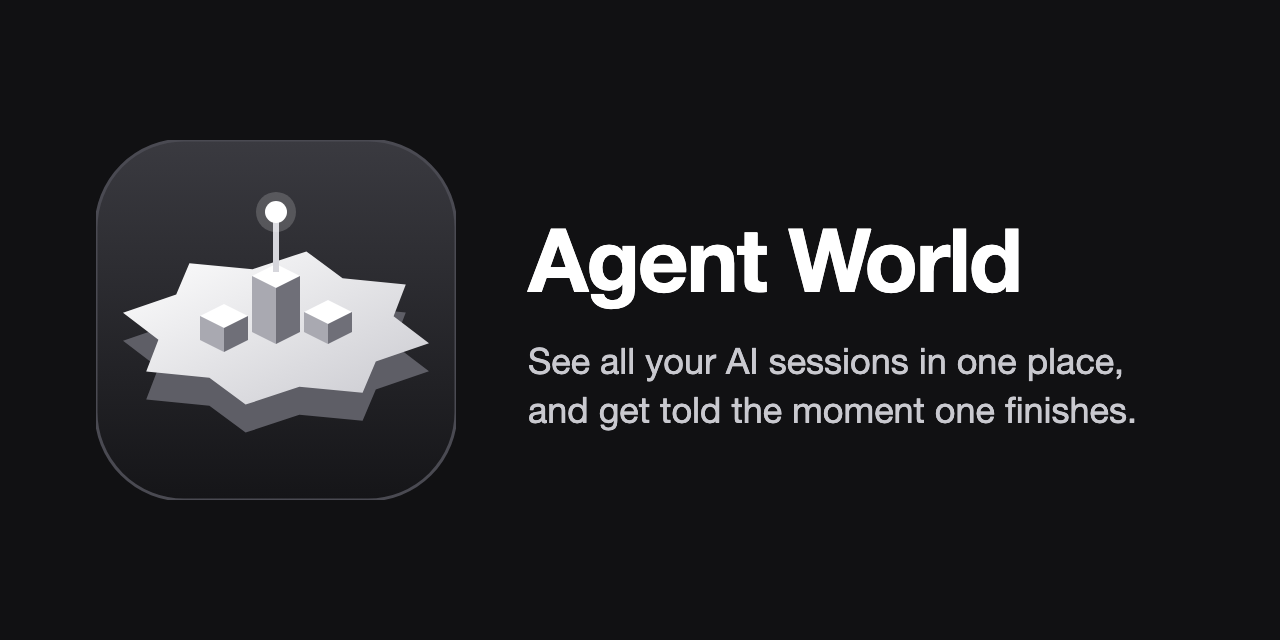
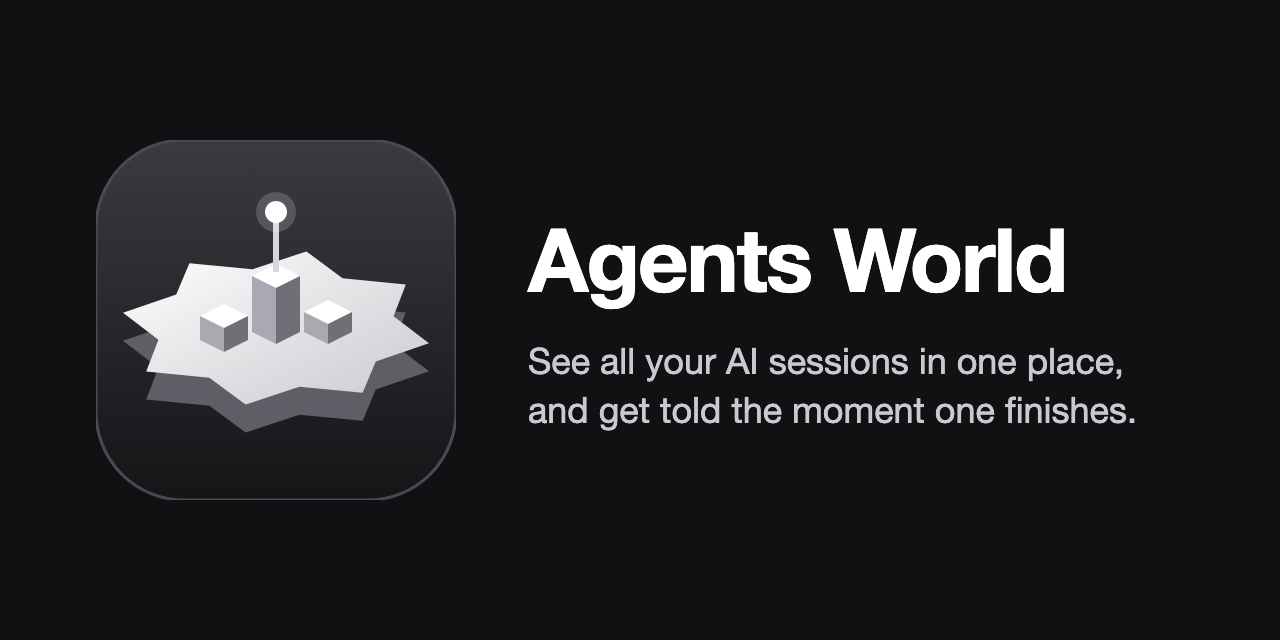
Rename to Agents World

Changed region(s): [[0.5938, 0.3438, 0.8438, 0.4688]]

diff --git a/server/index.js b/server/index.js
@@ -1,3 +1,4 @@
+import './env-names.js';   // first: new AGENTS_WORLD_* names also set the old AGENT_WORLD_* ones before anything reads them
 import { modelRouterRoute } from './model-router.js';
 import { usageRoute } from './usage-ledger.js';
 import http from 'node:http';
@@ -47,7 +48,7 @@ if (process.argv.includes('--snapshot')) {
 if (process.argv.includes('--test-notify')) {             // npm run test-notify: send one alert the way a finished session would
   const n = makeNotifier(config.notify);
   if (!n) console.log('All alerts are off in data/config.json ("notify").');
-  else console.log('sent:', await n({ title: 'Agent World', message: 'Finished: this is a test alert' }));
+  else console.log('sent:', await n({ title: 'Agents World', message: 'Finished: this is a test alert' }));
   process.exit(0);
 }
 
@@ -106,7 +107,7 @@ function openTerminal(cwd, resume) {
   if (process.platform === 'darwin') { execFile('osascript', ['-e', `tell application "Terminal"\nactivate\ndo script "${asEsc}"\nend tell`], (err) => err && console.error('osascript:', err.message)); return null; }
   if (process.platform === 'win32') {
     // A new Command Prompt window in that folder. `resume` is built from checked ids and agent names only, never free text.
-    spawn('cmd.exe', ['/c', 'start', 'Agent World', 'cmd.exe', '/k', resume], { cwd, detached: true, stdio: 'ignore' }).on('error', (e) => console.error('terminal:', e.message)).unref();
+    spawn('cmd.exe', ['/c', 'start', 'Agents World', 'cmd.exe', '/k', resume], { cwd, detached: true, stdio: 'ignore' }).on('error', (e) => console.error('terminal:', e.message)).unref();
     return null;
   }
   return `Opening a terminal is only supported on macOS and Windows. Run this yourself: ${cmd}`;
@@ -244,7 +245,7 @@ async function handle(req, res) {
     if (p === '/api/notify/test') {                                    // the first-steps guide: "Send a test alert"
       if (auth.remote) return json(res, 403, { error: 'Only from this computer.' });
       if (!notifier) return json(res, 200, { ok: false, error: 'Alerts are off in data/config.json ("notify").' });
-      await notifier({ title: 'Agent World', message: 'Finished: this is a test alert' });
+      await notifier({ title: 'Agents World', message: 'Finished: this is a test alert' });
       return json(res, 200, { ok: true });
     }
     if (p === '/api/family/stop') return json(res, 200, { ok: family.stop() });
@@ -461,7 +462,7 @@ if (!process.env.AGENT_WORLD_DRYRUN) { try { installAgents(); installStarter(ROO
 const resumeLoop = () => { try { const n = resumeOrphans(); if (n) console.log(`resumed ${n} research job(s) that were interrupted`); } catch (e) { console.error('resume orphans:', e.message); } };
 setTimeout(resumeLoop, 8000).unref(); setInterval(resumeLoop, 60_000).unref();   // a runner that died at 3 am is restarted within a minute
 server.listen(PORT, HOST, () => {
-  console.log(`Agent World running at http://localhost:${PORT}`);
+  console.log(`Agents World running at http://localhost:${PORT}`);
   // At login, open the Today page once a day (macOS only). Wait a moment so the page has a server to talk to.
   const delay = Number(process.env.AGENT_WORLD_AUTOOPEN_DELAY_MS) || 10000;
   if (config.today) setTimeout(() => autoOpen({   // the Today page is an opt-in extra ("today": true in data/config.json)

diff --git a/public/guide.js b/public/guide.js
@@ -108,7 +108,7 @@ function engineList() {
     const d = el('details', 'gd-eng' + (ok ? ' ok' : '')); d.open = (!ok && id !== 'opencode' && !engineWorks(found)) || (lost && !f.loggedIn);
     d.append(el('summary', '', `${e.name}: ${ok ? (f.loggedIn ? 'ready' : 'installed') : lost ? `installed, but ${fx.where} can't find it yet` : f.installed ? 'installed, not logged in' : 'not found'}`));
     if (lost) {                       // installed in a folder that is not on PATH: typing its name in a terminal fails
-      d.append(el('p', 'gd-soft', `It is in ${f.dir}, which is not on your PATH. Agent World can still run it.`));
+      d.append(el('p', 'gd-soft', `It is in ${f.dir}, which is not on your PATH. Agents World can still run it.`));
       d.append(el('p', '', `1. Fix it for good (paste in ${fx.shell}):`)); d.append(copy(fx.fix));
       d.append(el('p', '', `2. Open a NEW ${fx.shell} window, then log in: ${e.loginHow}`)); d.append(copy(e.login));
       d.append(el('p', 'gd-soft', 'Or log in right now without step 1:')); d.append(copy(fx.run));
@@ -125,7 +125,7 @@ function engineList() {
   const go = el('button', 'gd-btn primary', 'Continue'); go.type = 'button'; go.disabled = !engineWorks(found); go.onclick = () => feed({ type: 'engine-ok' });
   again.onclick = async () => { again.disabled = true; const r = await fetch('/api/engines').then(x => x.json()).catch(() => null); if (r) cfg.engines = r; shown = null; render(); };
   row.append(go, again); box.append(row);
-  if (!engineWorks(found)) box.append(el('p', 'gd-soft', 'After installing, run the login command once, then press "Check again". Still "not found"? Restart Agent World.'));
+  if (!engineWorks(found)) box.append(el('p', 'gd-soft', 'After installing, run the login command once, then press "Check again". Still "not found"? Restart Agents World.'));
   return box;
 }
 function notifyHelp() {
@@ -198,7 +198,7 @@ function resumeWait() {           // reloaded while waiting: check once whether 
 function noEngineNote() {        // no AI program at all: say so on the page, guide or not
   if (cfg?.engines?.any !== false || document.getElementById('gdNoEngine')) return;
   const n = el('div', 'gd-noengine'); n.id = 'gdNoEngine'; n.setAttribute('role', 'status');
-  n.append(el('b', '', 'No AI program found. '), document.createTextNode('Agent World runs Claude Code or Codex with your own subscription. Install one: '));
+  n.append(el('b', '', 'No AI program found. '), document.createTextNode('Agents World runs Claude Code or Codex with your own subscription. Install one: '));
   for (const [id, href] of [['claude', ENGINES.claude.docs], ['codex', ENGINES.codex.docs]]) { const a = el('a', '', ENGINES[id].name); a.href = href; a.target = '_blank'; a.rel = 'noopener'; n.append(a, document.createTextNode(id === 'claude' ? ' or ' : '. Then press "? Guide".')); }
   document.body.append(n);
 }

diff --git a/server/notify.js b/server/notify.js
@@ -21,7 +21,7 @@ export function createDoneWatcher({ notify, nameOf = (s) => s.cwd, quiet = (_s) 
       if (quiet(s)) continue;
       if (now - (sentAt.get(s.key) ?? -Infinity) < gapMs) continue;
       sentAt.set(s.key, now);
-      const alert = { title: clip(nameOf(s) || 'Agent World', 60), message: `Finished: ${clip(s.title || 'your task', 100)}` };
+      const alert = { title: clip(nameOf(s) || 'Agents World', 60), message: `Finished: ${clip(s.title || 'your task', 100)}` };
       done.push(alert);
       try { notify(alert)?.catch?.(() => {}); } catch (e) { console.warn('notify failed:', e.message); }
     }
@@ -32,7 +32,7 @@ export function createDoneWatcher({ notify, nameOf = (s) => s.cwd, quiet = (_s) 
 // AppleScript reads the text from its arguments, so a session name can never become code.
 const MAC_SCRIPT = 'on run argv\ndisplay notification (item 2 of argv) with title (item 1 of argv)\nend run';
 // PowerShell reads the text from environment variables and XML-escapes it. Windows only shows toasts from a registered app,
-// so the toast is sent under PowerShell's own app id (a made-up name like "Agent World" is silently dropped).
+// so the toast is sent under PowerShell's own app id (a made-up name like "Agents World" is silently dropped).
 const WIN_SCRIPT = [
   '[Windows.UI.Notifications.ToastNotificationManager, Windows.UI.Notifications, ContentType = WindowsRuntime] | Out-Null',
   '$e = { param($t) [System.Security.SecurityElement]::Escape($t) }',

diff --git a/public/guide-logic.js b/public/guide-logic.js
@@ -8,12 +8,12 @@ export const KEY = 'aw.guide';
 // accepts(ev, state): true when this event finishes the step.
 export const STEPS = [
   { id: 'welcome', page: 'any', target: null, action: 'Start the tour', choice: 'start',
-    title: 'Welcome to Agent World',
+    title: 'Welcome to Agents World',
     text: 'See all your AI sessions in one place, and get told the moment one finishes. This short tour shows you how, one step at a time. You do each step yourself.',
     accepts: (ev) => ev.type === 'next' },
   { id: 'connect', page: 'any', target: null, engines: true,
     title: 'Connect your AI',
-    text: 'Agent World has no AI account of its own. It runs Claude Code or Codex on this computer, logged in with your own subscription. One is enough. It never asks for your password or keys.',
+    text: 'Agents World has no AI account of its own. It runs Claude Code or Codex on this computer, logged in with your own subscription. One is enough. It never asks for your password or keys.',
     accepts: (ev) => ev.type === 'engine-ok' },
   { id: 'name', page: 'any', target: null, input: 'name',
     title: 'What should the agents call you?',

diff --git a/server/chat.js b/server/chat.js
@@ -120,7 +120,7 @@ export function startRun({ tool, sessionId, cwd, text, mode, agent, images = [],
     if (!fs.existsSync(cwd)) throw new Error('Interstellar folder is missing: ' + cwd);
   }
   // the agent you start must not inherit Bella's own settings
-  const env = Object.fromEntries(Object.entries(withToolPath(process.env)).filter(([k]) => !k.startsWith('AGENT_WORLD_')));
+  const env = Object.fromEntries(Object.entries(withToolPath(process.env)).filter(([k]) => !k.startsWith('AGENT_WORLD_') && !k.startsWith('AGENTS_WORLD_')));
   env.CLAUDE_CODE_AUTO_COMPACT_WINDOW = String(COMPACT_TOKENS);       // Claude Code reads this; see COMPACT_TOKENS
   let runToken = null;
   if (agent === 'bella' && tool === 'claude') { env.BELLA_MAX_MODE = mode; runToken = env.BELLA_RUN_TOKEN = issueRunToken(mode); }   // only on Claude Code, where her tool rules limit what she runs   // BELLA_MAX_MODE is only informational; the server trusts the token and clamps what she may start

diff --git a/public/main.js b/public/main.js
@@ -43,7 +43,7 @@ function apply(snap) {
   renderSidebar(list); renderCounts(list); refreshCard(); $('empty').hidden = list.length > 0;
   if (!state.framed && (list.length || snap.interstellar)) { state.framed = true; setTimeout(() => world.home(), 300); }
   const needs = list.filter(s => s.status === 'needs').length;
-  document.title = needs ? `(${needs}) Agent World` : 'Agent World';
+  document.title = needs ? `(${needs}) Agents World` : 'Agents World';
 }
 const find = (key) => state.snap?.sessions.find(s => s.key === key);
 const findAgent = (key) => (key === 'interstellar' ? state.snap?.interstellar : key === 'bella' ? state.snap?.bella : key === 'lab' ? state.snap?.lab : state.snap?.agents?.find(a => 'agent:' + a.name === key));

diff --git a/test/util.test.js b/test/util.test.js
@@ -68,3 +68,10 @@ test('Windows: an npm .cmd tool is started as node + its script, never through a
   assert.equal(resolveBin('claude', [], io).cmd, 'C:\\bin\\claude.exe', 'a real .exe wins');
   assert.deepEqual(resolveBin('claude', ['x'], { platform: 'darwin' }), { cmd: 'claude', args: ['x'] });
 });
+
+test('new AGENTS_WORLD_* setting names work, and an old AGENT_WORLD_* name that is set wins', async () => {
+  const { applyNewEnvNames } = await import('../server/env-names.js');
+  const env = applyNewEnvNames({ AGENTS_WORLD_PORT: '4400', AGENTS_WORLD_HOSTS: 'new', AGENT_WORLD_HOSTS: 'old' });
+  assert.equal(env.AGENT_WORLD_PORT, '4400');
+  assert.equal(env.AGENT_WORLD_HOSTS, 'old');
+});

diff --git a/public/index.html b/public/index.html
@@ -7,7 +7,7 @@
 <meta name="apple-mobile-web-app-capable" content="yes">
 <meta name="apple-mobile-web-app-status-bar-style" content="black-translucent">
 <meta name="theme-color" content="#12121c">
-<title>Agent World</title>
+<title>Agents World</title>
 <link rel="icon" type="image/svg+xml" href="/logo.svg">
 <link rel="stylesheet" href="style.css">
 <script type="importmap">
@@ -19,7 +19,7 @@
   <div id="scrim"></div>
   <aside id="side">
     <header>
-      <h1>Agent World</h1>
+      <h1>Agents World</h1>
       <div id="live" title="Live connection"><span></span><b>connecting</b></div>
     </header>
     <div id="counts"></div>

diff --git a/server/engines.js b/server/engines.js
@@ -4,7 +4,7 @@ import path from 'node:path';
 import { knownDirs, savedUserPath } from './util.js';
 
 // Which AI programs ("engines") are on this computer, and which one each manager agent uses.
-// Agent World has no AI account of its own: it runs Claude Code, Codex or OpenCode, logged in with your own subscription.
+// Agents World has no AI account of its own: it runs Claude Code, Codex or OpenCode, logged in with your own subscription.
 // We only look for files. We never read, store or send a password, key or token.
 
 export const ENGINE_NAMES = { claude: 'Claude Code', codex: 'Codex', opencode: 'OpenCode' };

diff --git a/test/chat-mode.test.js b/test/chat-mode.test.js
@@ -28,10 +28,10 @@ test('the server tells the page the run id immediately, so Stop works before the
   assert.match(server, /t: 'accepted', runId/);
 });
 
-test('every page uses the one app name, Agent World', () => {
+test('every page uses the one app name, Agents World', () => {
   for (const f of ['index', 'chat', 'family', 'research', 'today']) {
     const html = fs.readFileSync(new URL(`../public/${f}.html`, import.meta.url), 'utf8');
-    assert.match(html, /<title>[^<]*Agent World[^<]*<\/title>/, f);
+    assert.match(html, /<title>[^<]*Agents World[^<]*<\/title>/, f);
   }
 });
 

diff --git a/server/env-names.js b/server/env-names.js
@@ -1,0 +1,7 @@
+// The app was renamed to Agents World. New setting names (AGENTS_WORLD_PORT, ...) are copied to the old ones
+// (AGENT_WORLD_PORT, ...) that the code reads, so both work. An old name that is already set wins.
+export function applyNewEnvNames(env = process.env) {
+  for (const [k, v] of Object.entries(env)) if (k.startsWith('AGENTS_WORLD_')) { const old = 'AGENT_WORLD_' + k.slice(13); if (env[old] === undefined) env[old] = v; }
+  return env;
+}
+applyNewEnvNames();

diff --git a/public/today.html b/public/today.html
@@ -7,7 +7,7 @@
 <meta name="apple-mobile-web-app-capable" content="yes">
 <meta name="apple-mobile-web-app-status-bar-style" content="black-translucent">
 <meta name="theme-color" content="#1b1b1a">
-<title>Today · Agent World</title>
+<title>Today · Agents World</title>
 <link rel="icon" type="image/svg+xml" href="/logo.svg">
 <link rel="stylesheet" href="today.css">
 </head>
